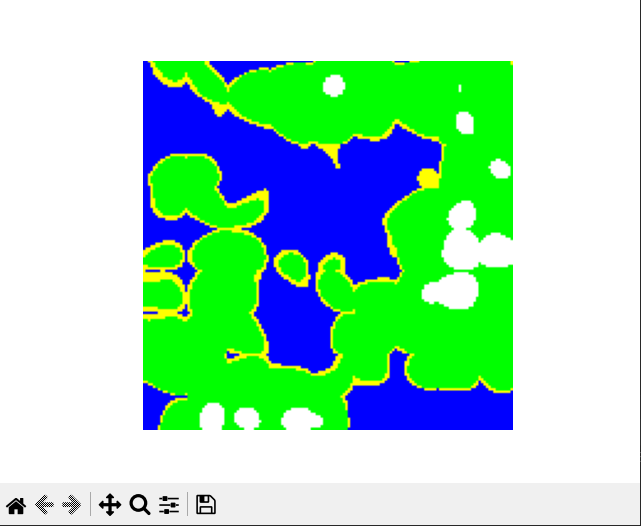
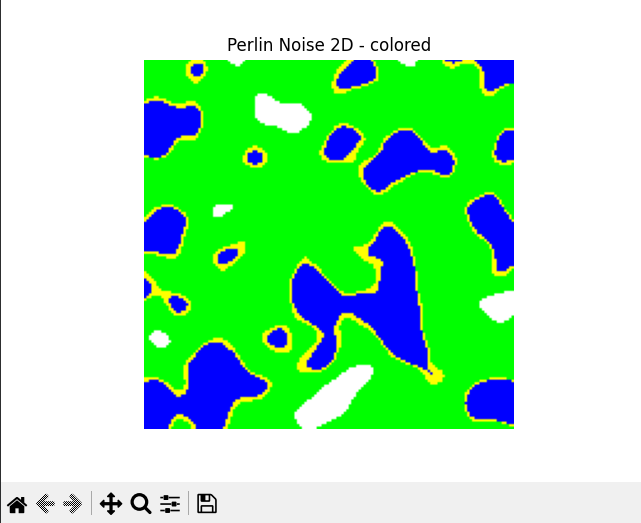
fixed bug

Changed region(s): [[0.2184, 0.0612, 0.8112, 0.826], [0.9984, 0.0, 1.0, 1.0], [0.0, 0.9178, 0.3432, 1.0]]

diff --git a/main.py b/main.py
@@ -4,7 +4,7 @@ import matplotlib.pyplot as plt
 
 
 def hashCoordinates(x: int, y: int):
-    MAX_COORDINATE_Y = 666017 # y va lua valori in intervalul [0, MAX_COORDINATE_Y - 1]
+    MAX_COORDINATE_Y = 666013 # y va lua valori in intervalul [0, MAX_COORDINATE_Y - 1]
     return x * MAX_COORDINATE_Y + y
 
 
@@ -42,7 +42,7 @@ def calculateInitialHeight(seed: int):
 
 
 def fadeFunction(t: float):
-    return 6 * (t * 5) - 15 * (t * 4) + 10 * (t ** 3)
+    return 6 * (t ** 5) - 15 * (t ** 4) + 10 * (t ** 3)
 
 def fadeFunctionXY(x: float, y: float):
     return fadeFunction(x) * fadeFunction(y)
@@ -50,9 +50,9 @@ def fadeFunctionXY(x: float, y: float):
 
 def noisePerGrid(x: int, y: int, currentGridSize: int):
     x0 = (x // currentGridSize) * currentGridSize
-    x1 = x0 + currentGridSize
+    x1 = x0 + currentGridSize # fara -1 aici ca nu se intampla ce trebuie
     y0 = (y // currentGridSize) * currentGridSize
-    y1 = y0 + currentGridSize
+    y1 = y0 + currentGridSize # fara -1 aici ca nu se intampla ce trebuie
 
     seed00 = hashCoordinates(x0, y0)
     seed01 = hashCoordinates(x0, y1)
@@ -84,10 +84,10 @@ def noisePerGrid(x: int, y: int, currentGridSize: int):
     dot10Added = dot10 + calculateInitialHeight(seed10)
     dot11Added = dot11 + calculateInitialHeight(seed11)
 
-    fade00 = fadeFunctionXY(1 - dist00Norm[0], 1 - dist00Norm[1])
-    fade01 = fadeFunctionXY(1 - dist01Norm[0], 1 + dist01Norm[1])
-    fade10 = fadeFunctionXY(1 + dist10Norm[0], 1 - dist10Norm[1])
-    fade11 = fadeFunctionXY(1 + dist11Norm[0], 1 + dist11Norm[1])
+    fade00 = fadeFunctionXY(1.0 - dist00Norm[0], 1.0 - dist00Norm[1])
+    fade01 = fadeFunctionXY(1.0 - dist01Norm[0], 1.0 + dist01Norm[1])
+    fade10 = fadeFunctionXY(1.0 + dist10Norm[0], 1.0 - dist10Norm[1])
+    fade11 = fadeFunctionXY(1.0 + dist11Norm[0], 1.0 + dist11Norm[1])
 
     output = dot00Added * fade00 + dot01Added * fade01 + dot10Added * fade10 + dot11Added * fade11
     return output
@@ -109,6 +109,7 @@ def perlinNoise2D(x: int, y: int):
 
     for _ in range(NUM_OCTAVES):
         output += (currentAmplitude * noisePerGrid(x, y, currentGridSize))
+
         currentGridSize *= GRID_MULTIPLIER
         currentAmplitude *= AMPLITUDE_DIMINISHMENT
 
@@ -133,6 +134,7 @@ image = (image - imageMinimum) / (imageMaximum - imageMinimum)
 
 
 plt.imshow(image, cmap='gray')
+plt.title('Perlin Noise 2D - grayscale')
 plt.axis('off')
 plt.show()
 
@@ -155,8 +157,11 @@ for i in range(IMAGE_HEIGHT):
 
 
 plt.imshow(displayedImage)
+plt.title('Perlin Noise 2D - colored')
 plt.axis('off')
 plt.show()
 
 print('Maximum: ', imageMaximum)
 print('Minimum: ', imageMinimum)
+
+
